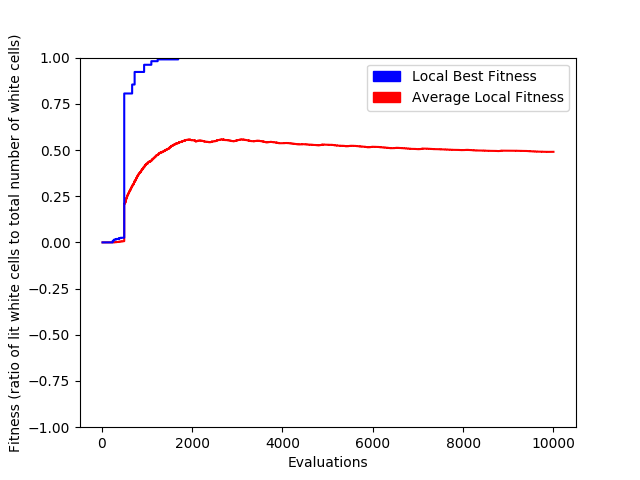
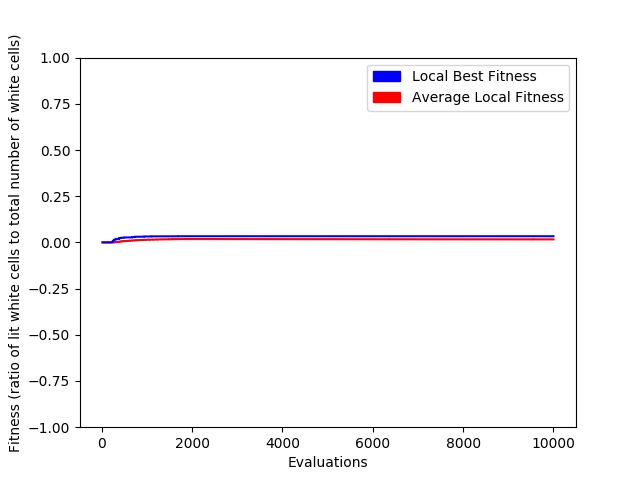
Adjust graphs for tests that did not complete 10k evals

diff --git a/analysis/gen_fitness_graphs.py b/analysis/gen_fitness_graphs.py
@@ -35,6 +35,7 @@ for q in range(len(log_file_paths)):
         curr_run = 1
 
         # Scrape data from the log file
+        max_num_evals = 0
         for line in log_file:
             if not line[0] == 'R':
                 # This line has eval and fitness data
@@ -50,6 +51,13 @@ for q in range(len(log_file_paths)):
                     eval_dict[eval_num][2] += 1
                 else:
                     eval_dict[eval_num] = [avg_fit, best_fit, 1]
+                
+                max_num_evals = max(eval_dict[eval_num][2], max_num_evals)
+
+        # Adjust the counts up to the largest count
+        for eval_num in eval_dict:
+            eval_dict[eval_num][2] = max_num_evals
+
 
         evals = []
         avg_fits = []
